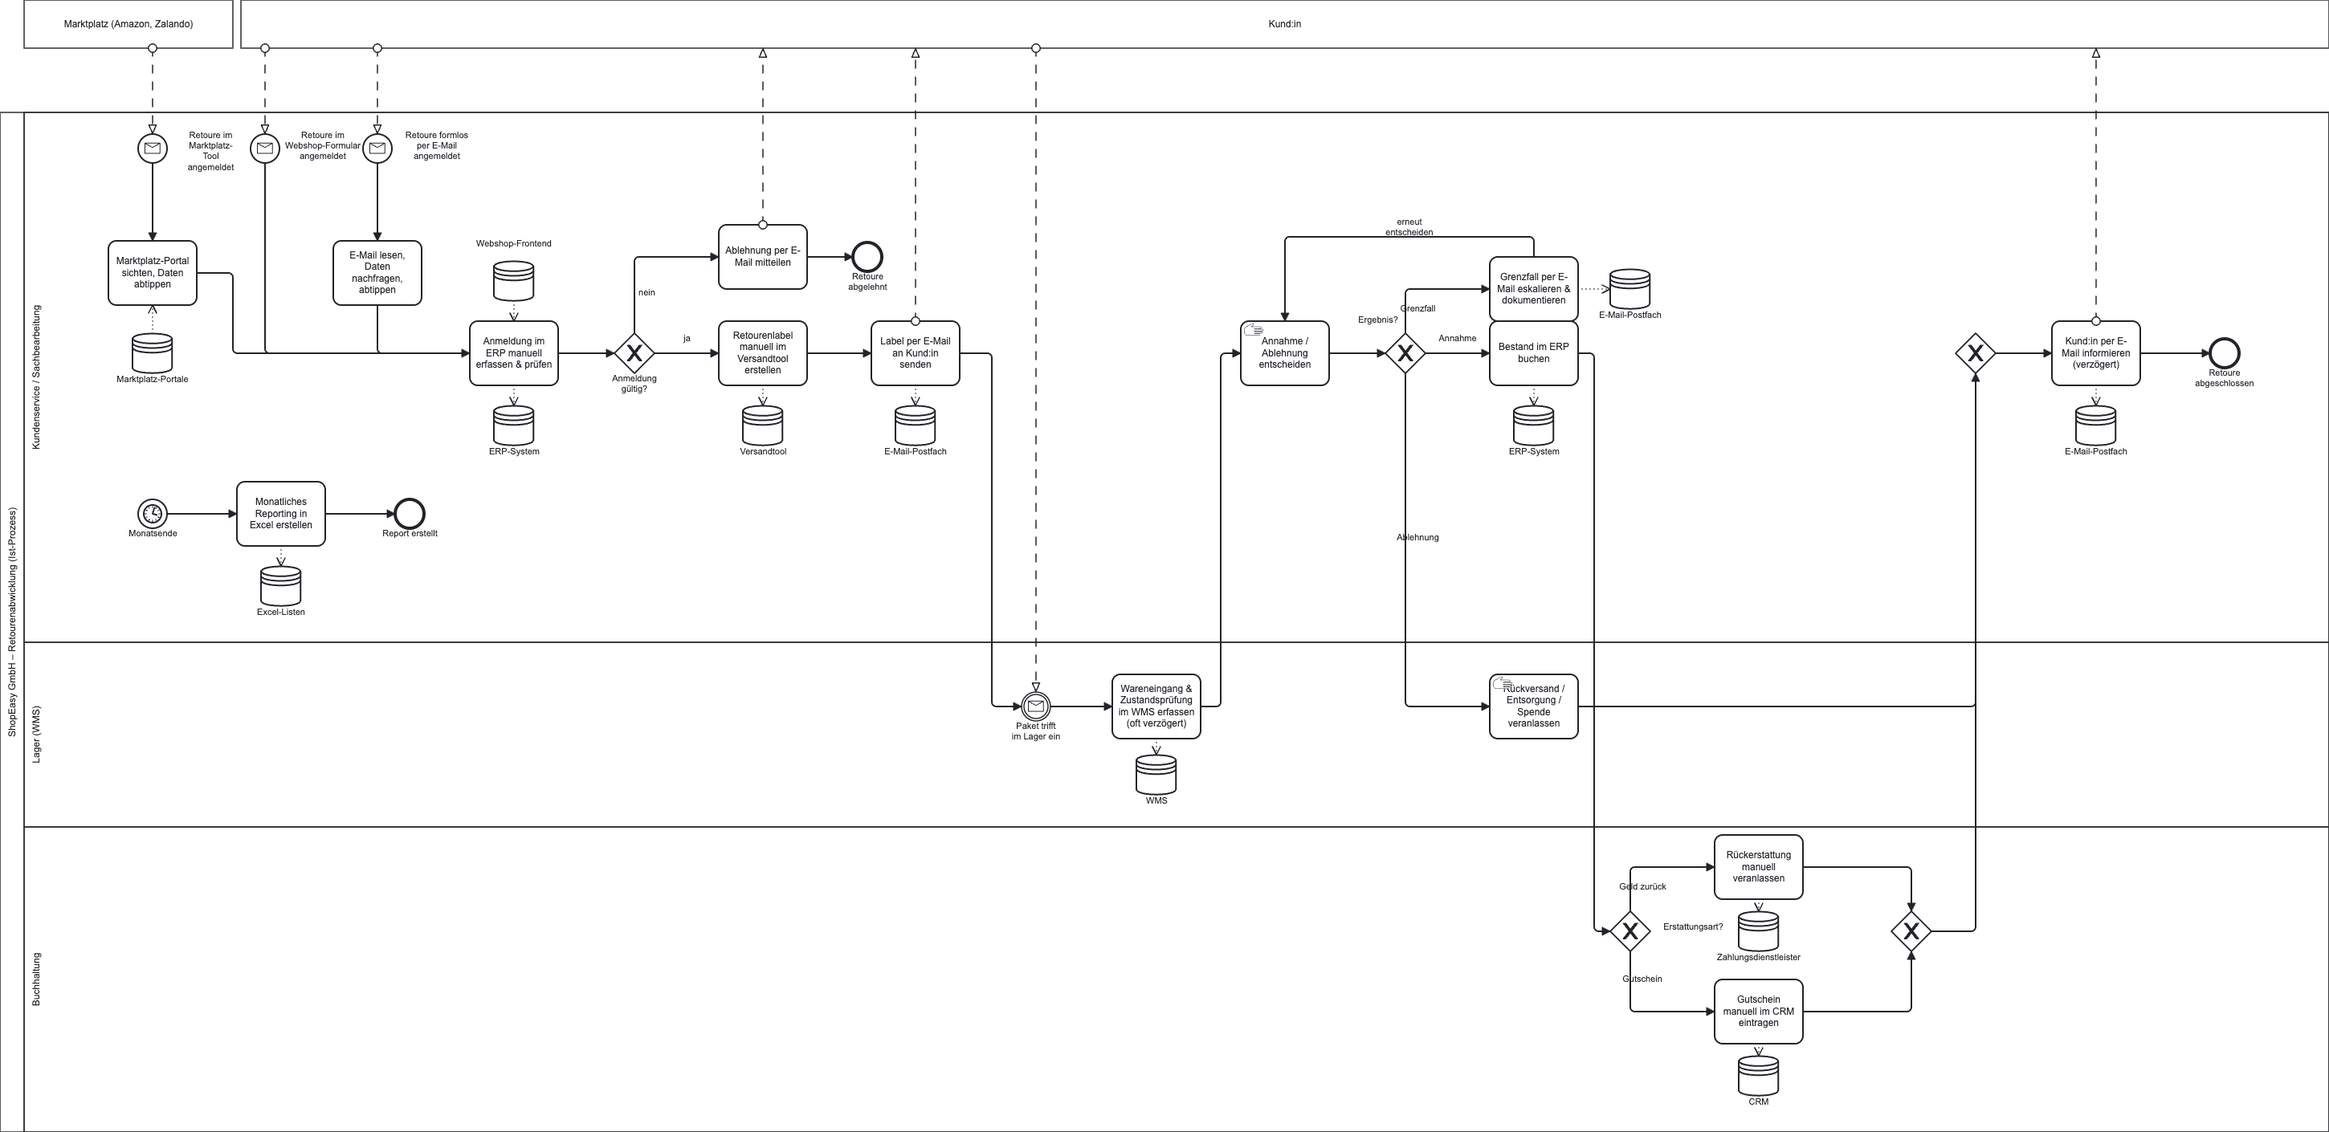
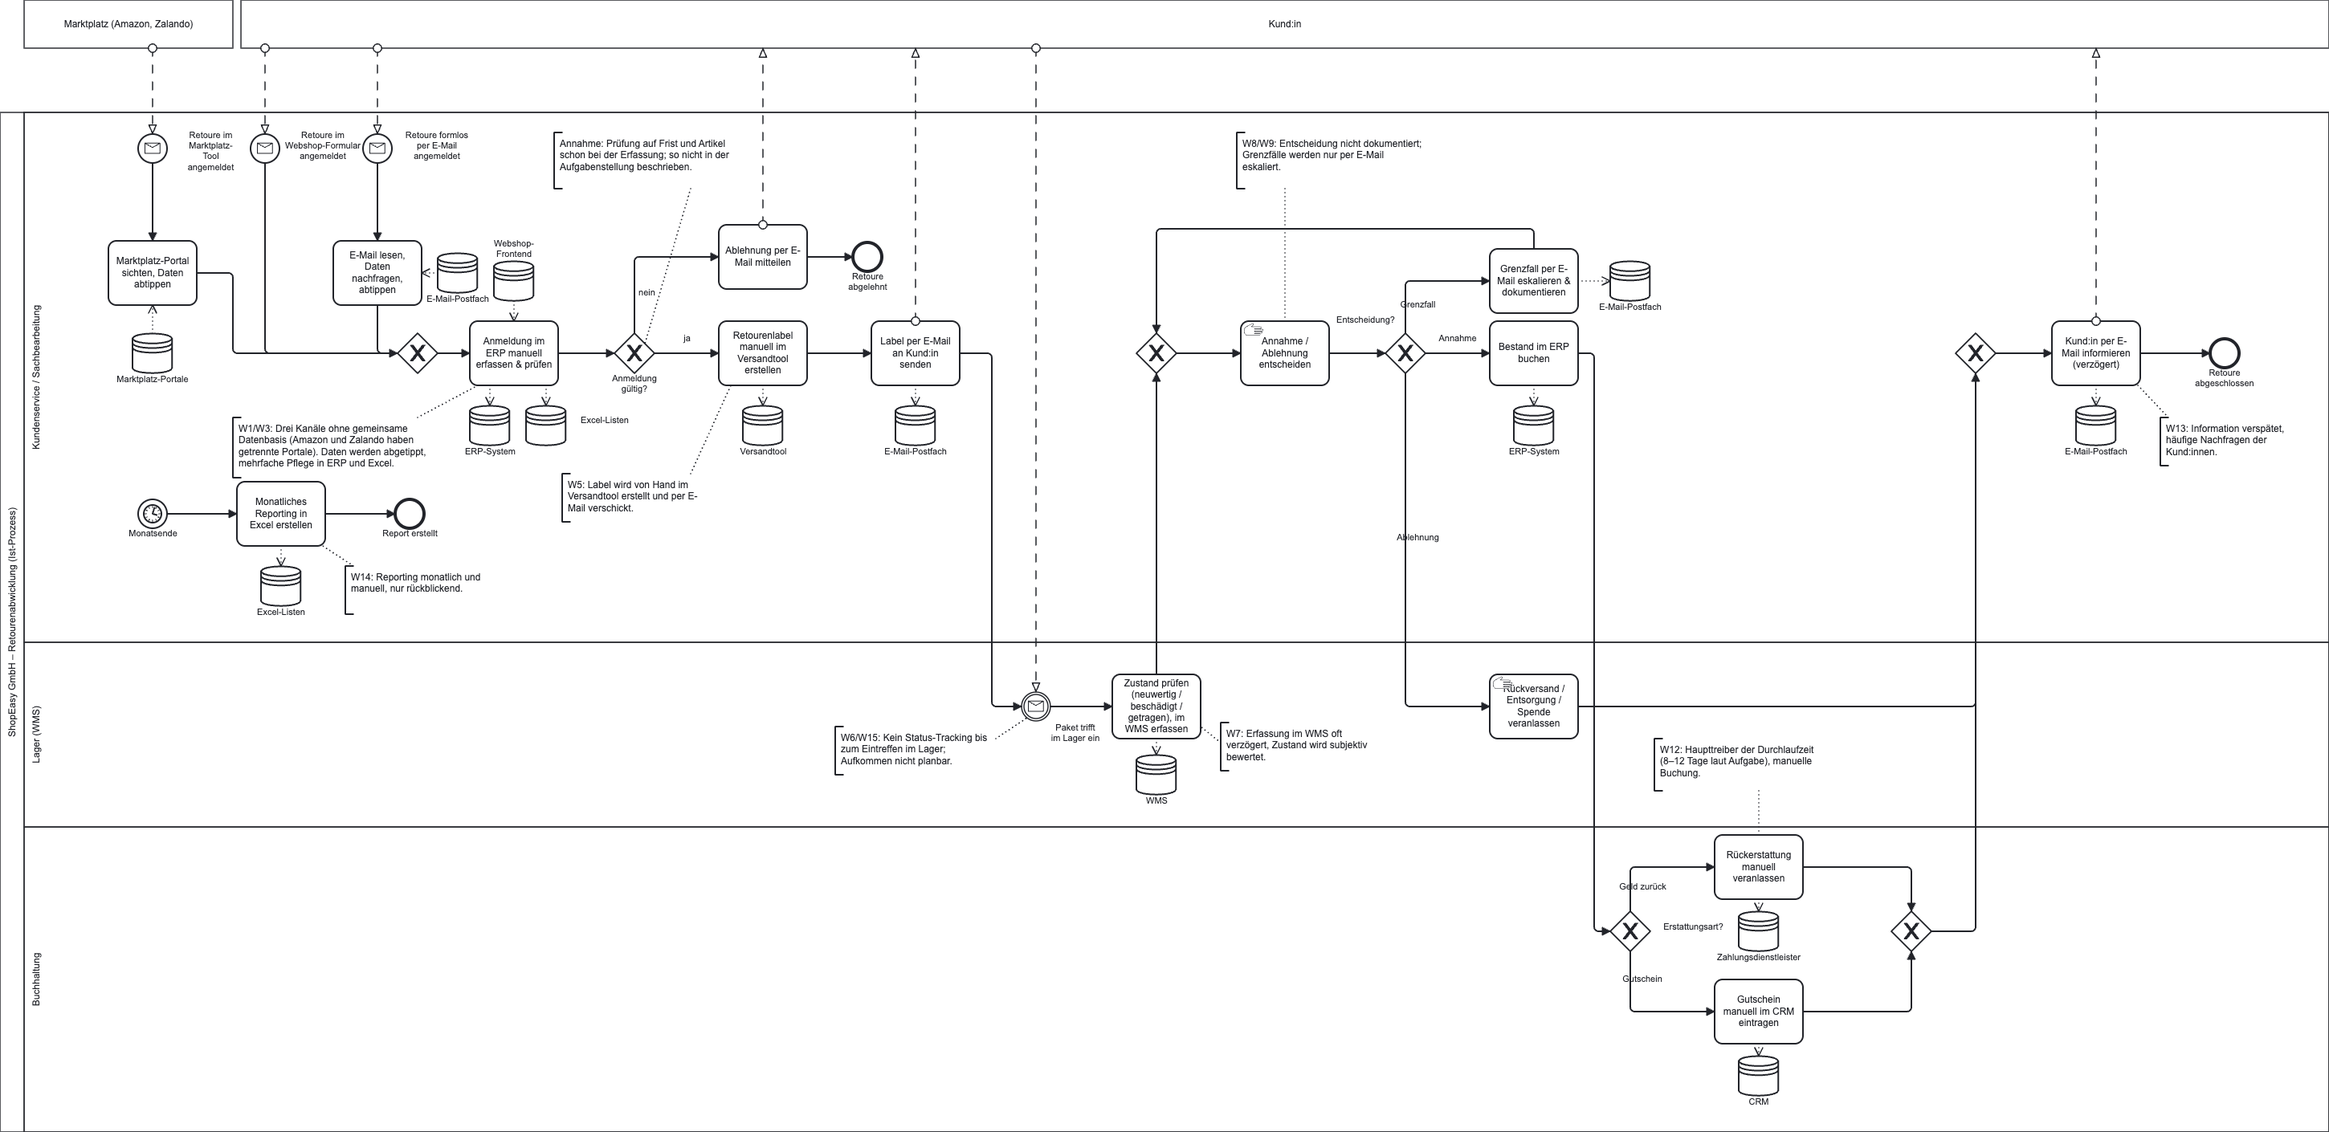
Ist-Modell: Review umgesetzt, Datenspeicher, Gateways und Schwachstellen-Anmerkungen
- E-Mail-Postfach an "E-Mail lesen" und Excel-Speicher an "Anmeldung im ERP erfassen"
- Explizite XOR-Zusammenführung vor ERP-Erfassung und Entscheidung (Lint fake-join)
- Neun Textanmerkungen: Schwachstellen W1-W15 und gekennzeichnete Annahme
- Gateway "Entscheidung?" und Zustandsprüfung umbenannt, Layout-Korrekturen
- Direkt im XML der Datei geändert (ohne Skript); Lint 0 Warnungen, Camunda 8
  Schema-Deploy und 5 Testläufe bestanden, PNG neu gerendert
- Bericht, Schwachstellenanalyse und AI-USAGE angepasst

Claude-Session: https://claude.ai/code/session_016if8MtQSTtzXqTZSJq11bX

diff --git a/sprint1-bpm/sprint1-bericht.md b/sprint1-bpm/sprint1-bericht.md
@@ -12,9 +12,11 @@
 ## Ist-Prozess
 Die zehn Schritte der Aufgabenstellung sind im Pool ShopEasy in drei Lanes modelliert (Kundenservice / Sachbearbeitung, Lager, Buchhaltung). Kund:in und Marktplatz sind externe Teilnehmer und als eingeklappte Pools dargestellt; sie kommunizieren über Nachrichtenflüsse (Anmeldung, Label, Paket, Ablehnung, Information). Die drei Startereignisse münden über kanalspezifische Schritte in die Erfassung im ERP. Danach entscheidet das Gateway „Anmeldung gültig?“, ob die Retoure (z. B. wegen abgelaufener Frist) per E-Mail abgelehnt wird. Die Entscheidung nach dem Wareneingang hat die Ausgänge Annahme, Ablehnung und Grenzfall; Grenzfälle laufen per E-Mail-Eskalation zurück in die Entscheidung. Bei der Rückerstattung (Schritt 8) entscheidet ein Gateway zwischen Geld über den Zahlungsdienstleister und Gutschein im CRM.
 
-Die beteiligten Systeme aus der Aufgabenstellung (Webshop-Frontend, Marktplatz-Portale, ERP, WMS, CRM, Zahlungsdienstleister, E-Mail-Postfach, Excel) sind als Datenspeicher an den Aufgaben modelliert, die sie nutzen; zusätzlich das Versandtool aus Schritt 3. Das monatliche Reporting (Schritt 10) ist ein eigener Ablauf mit Timer-Startereignis, weil es nicht Teil des einzelnen Retourenfalls ist.
+Die beteiligten Systeme aus der Aufgabenstellung (Webshop-Frontend, Marktplatz-Portale, ERP, WMS, CRM, Zahlungsdienstleister, E-Mail-Postfach, Excel) sind als Datenspeicher an den Aufgaben modelliert, die sie nutzen. Jeder Eingangskanal hat sein System (Webshop-Frontend, Marktplatz-Portal, E-Mail-Postfach), und Excel kommt auch bei der Nachverfolgung der Fälle vor, nicht nur im Reporting. Zusätzlich gibt es das Versandtool aus Schritt 3. Das monatliche Reporting (Schritt 10) ist ein eigener Ablauf mit Timer-Startereignis, weil es nicht Teil des einzelnen Retourenfalls ist.
 
-**Aufgabentypen im Ist-Modell:** Schritte, die an einem System ausgeführt werden (ERP, WMS, E-Mail, Excel), sind als undefinierte Aufgabe (`task`) mit Datenspeichern modelliert. Nur die Entscheidung und die Veranlassung von Rückversand, Entsorgung oder Spende sind `manualTask`. Die Vorlesung grenzt den Manual Task als Tätigkeit ohne IT-Unterstützung ab; ein User Task würde eine Process Engine voraussetzen, die es im Ist-Prozess nicht gibt.
+**Aufgabentypen im Ist-Modell:** Schritte, die an einem System ausgeführt werden (ERP, WMS, E-Mail, Excel), sind als undefinierte Aufgabe (`task`) mit Datenspeichern modelliert. Nur die Entscheidung und die Veranlassung von Rückversand, Entsorgung oder Spende sind `manualTask`. Die Vorlesung grenzt den Manual Task als Tätigkeit ohne IT-Unterstützung ab; ein User Task würde eine Process Engine voraussetzen, die es im Ist-Prozess nicht gibt. Wo mehrere Wege in eine Aufgabe münden (Erfassung im ERP, Entscheidung), steht davor ein explizites XOR-Gateway.
+
+**Schwachstellen im Diagramm:** Die Schwachstellen W1 bis W15 stehen als Anmerkungen an den betroffenen Elementen. Eine Annahme, die nicht in der Aufgabenstellung steht (Prüfung auf Frist und Artikel schon bei der Erfassung), ist am Gateway „Anmeldung gültig?“ als Annahme gekennzeichnet.
 
 ## Soll-Prozess – wichtigste Änderungen
 1. Alle Kanäle münden in einen zentralen Retourenfall (REST/Messaging).
@@ -44,14 +46,13 @@ Die Wahl der Umsetzungsart je Aktivität (mit Begründung, verworfener Alternati
 | KI | E-Mail auslesen, Retourengrund klassifizieren, Betrugsscore |
 
 ## Prüfung mit Camunda 8 (lokal, Version 8.10.4)
-- **Lint** (`c8ctl bpmn lint`): keine Fehler. Hinweise nur zum Stil: Aufgaben mit mehreren Eingängen (`fake-join`, hier bewusst ein impliziter XOR-Merge), ein Label an einem Fluss ohne Gateway und zwei sich berührende Elemente im Ist-Modell.
+- **Lint** (`c8ctl bpmn lint`): Ist-Modell ohne Fehler und ohne Warnungen (der erste Lauf zeigte fünf Stilwarnungen, sie sind behoben). Soll-Modell ohne Fehler, vier Stilwarnungen (`fake-join`: Aufgaben mit mehreren Eingängen, hier bewusst ein impliziter XOR-Merge).
 - **Deploy der Dateien unverändert:** beide Modelle sind schema-gültig. Camunda lehnt sie nur ab, weil sie als fachliche Modelle nicht ausführbar sind („Must contain at least one executable process“). Dabei fiel ein Schemafehler im Ist-Modell auf (Datenassoziation ohne Ziel), der behoben wurde.
-- **Testläufe auf ausführbaren Prüfkopien** (mit Zeebe-Erweiterungen für Task-Typen, Nachrichten, Fehlercodes und Bedingungen; die Kopien liegen nicht im Repo, die Konfiguration für den Betrieb folgt in Sprint 4): Soll-Modell 13 Läufe (Standard, Ablehnung, Verdacht bestätigt und nicht bestätigt, Kanal E-Mail und Marktplatz, Label- und Zahlungsfehler in beiden Reihenfolgen, Grenzfall angenommen und abgelehnt, Ablehnung nach Zustandsprüfung, Timeout), Ist-Modell 5 Läufe. Alle Instanzen endeten `COMPLETED`, ohne Incidents und über den erwarteten Pfad.
+- **Testläufe auf ausführbaren Prüfkopien** (mit Zeebe-Erweiterungen für Task-Typen, Nachrichten, Fehlercodes und Bedingungen; die Kopien liegen nicht im Repo, die Konfiguration für den Betrieb folgt in Sprint 4): Soll-Modell 13 Läufe (Standard, Ablehnung, Verdacht bestätigt und nicht bestätigt, Kanal E-Mail und Marktplatz, Label- und Zahlungsfehler in beiden Reihenfolgen, Grenzfall angenommen und abgelehnt, Ablehnung nach Zustandsprüfung, Timeout), Ist-Modell 5 Läufe. Alle Instanzen endeten `COMPLETED`, ohne Incidents und über den erwarteten Pfad. Nach der Überarbeitung des Ist-Modells wurden Lint, Deploy und die fünf Ist-Läufe wiederholt.
 - **Gegenprobe:** Das Soll-Modell vor der Korrektur lehnte Camunda ab (Bedingungen an User Tasks), und mit dem dreifachen Join blieb eine Instanz nach Bestandsbuchung und Rückerstattung hängen (Deadlock). Beides ist im aktuellen Modell behoben.
 
 ## Offene Punkte
-- Modelle im Camunda Modeler öffnen, das Layout prüfen und dort weiterpflegen: Der Modeler ist ab jetzt die Quelle. Den Erstentwurf der Dateien und der Diagramme hat Claude Code per Skript geschrieben, weil die KI den Modeler nicht bedienen kann (siehe `AI-USAGE.md`). Nach Änderungen die PNGs im Modeler neu exportieren; die jetzigen PNGs wurden mit bpmn-js gerendert und können in Details abweichen.
-- Zwei kleine Korrekturen aus dem Lint, im Modeler: im Ist-Modell `t_esc` ein paar Pixel nach oben schieben (berührt `t_stock`) und das Label „erneut entscheiden“ an der Verbindung `t_esc` → `t_dec` entfernen (Labels an Flüssen sind nur an Gateway-Ausgängen vorgesehen).
+- Modelle im Camunda Modeler öffnen, das Layout prüfen und dort weiterpflegen: Der Modeler ist ab jetzt die Quelle. Den Erstentwurf der Dateien hat Claude Code per Skript geschrieben, spätere Änderungen (u. a. Datenspeicher, Anmerkungen und Gateways im Ist-Modell) direkt im XML der Datei, weil die KI den Modeler nicht bedienen kann (siehe `AI-USAGE.md`). Nach Änderungen die PNGs im Modeler neu exportieren; die jetzigen PNGs wurden mit bpmn-js gerendert und können in Details abweichen.
 - Startpunkt der „8–12 Tage“ mit dem Dozenten klären (ab Anmeldung oder ab Wareneingang); K1a und K1b decken beide Varianten ab.
 - Annahmen prüfen: Versandtool und Zahlungsdienstleister haben eine API, das ERP nicht.
 - Aktivitätsnamen des KPI-Katalogs mit der Log-Datei aus Sprint 3 abgleichen.

diff --git a/AI-USAGE.md b/AI-USAGE.md
@@ -16,17 +16,18 @@ Die 2-seitige persönliche Zusammenfassung (Sprint 6) wird ohne KI erstellt.
 | 2026-10-19 | Claude Code | Prüfung der Modelle mit lokalem Camunda 8.10.4 (`c8ctl`: Lint, Deploy, Testläufe auf ausführbaren Prüfkopien, die nicht im Repo liegen); dabei Schemafehler im Ist-Modell (Datenassoziation ohne Ziel) behoben. Die `.bpmn`-Dateien und PNGs hat Claude Code per Skript geschrieben, weil die KI den Camunda Modeler nicht bedienen kann; das Skript `tools/gen_bpmn.py` wurde danach aus dem Repo entfernt, der Camunda Modeler ist ab jetzt die Quelle der Modelle | offen – siehe Prüfliste |
 | 2026-10-19 | Claude Code | Quellenbasis für die Modellierungsregeln im Review (Manual Task ohne IT, Pool = Teilnehmer / Lane = Rolle, Kennzahlenfamilien): die Lernblock-Zusammenfassungen im Kursordner (`DVG_02_BPM_Lernbloecke.md`, `DVG_06_Prozessautomatisierung_Teil1_Lernbloecke.md`). Die Dateien sind KI-erstellt (siehe Zeile vom 04.10.). Claude hat die drei Aussagen am 19.10. gegen die Originalfolien abgeglichen und bestätigt: `06_Prozessautomatisierung_Teil 1.pdf` Folie 43 (Pools und Lanes) und Folie 48 (manuelle Aktivität ohne IT gegenüber Steuerung durch die Process Engine), `02_BPM.pdf` Folie 35 (Kennzahlenfamilien) | offen – siehe Prüfliste |
 | 2026-10-19 | Claude Code | Review und Überarbeitung von `sprint1-bpm/schwachstellenanalyse.md`: Kategorien auf Medienbruch, Wartezeit und Fehlerquelle vereinheitlicht (W6 und W10 fehlten), Spalte „Beleg“ (Aufgabe oder Annahme), neue Tabellen zu Medienbrüchen und Wartezeiten, Ursache-Wirkung-Ketten, Priorisierung nach den drei Zielen des Managements, Hypothesen mit KPI-Bezug | offen – siehe Prüfliste |
+| 2026-10-19 | Claude Code | Ist-Modell (`sprint1-bpm/ist-prozess.bpmn`) nach dem Review direkt im XML der Datei geändert (von Hand, ohne Skript, weil die KI den Camunda Modeler nicht bedienen kann): E-Mail-Postfach an `t_mail`, Excel-Speicher an `t_erp`, zwei explizite Zusammenführungs-Gateways, neun Anmerkungen (Schwachstellen W1–W15, gekennzeichnete Annahme), `gw1` und `t_gr` umbenannt, Layout-Korrekturen. Geprüft mit Lint (0 Warnungen), Camunda 8 (Schema-Deploy, 5 Testläufe) und Render; PNG neu erzeugt | offen – siehe Prüfliste |
 
 ## Prüfliste vor Abgabe (bis 20.10.2026, 10:00)
 
 Nach der Prüfung ersetzt ihr „offen – siehe Prüfliste“ in der Tabelle durch das Ergebnis, z. B. „Gelesen und geprüft von Anna am 20.10.; geändert: Priorisierung von W4 auf hoch“.
 
 - [ ] **1. Entwurf vom 12.10.** (Charter, Ist-/Soll-BPMN, Schwachstellen, KPI): alle Dokumente in `docs/` inhaltlich lesen. Geprüft von: ____ am: ____ Geändert: ____
-- [ ] **2. Ist-Modell** (19.10.): `sprint1-bpm/ist-prozess.bpmn` im Camunda Modeler öffnen; Layout und Inhalt gegen die zehn Schritte der Aufgabenstellung prüfen. Geprüft von: ____ am: ____ Geändert: ____
+- [ ] **2. Ist-Modell** (19.10.): `sprint1-bpm/ist-prozess.bpmn` im Camunda Modeler öffnen; Layout und Inhalt gegen die zehn Schritte der Aufgabenstellung prüfen. Die Änderungen vom 19.10. (Datenspeicher, Gateways, Anmerkungen) ansehen und bei Bedarf im Modeler nachbessern. Geprüft von: ____ am: ____ Geändert: ____
 - [ ] **3. Schwachstellenanalyse:** Priorisierung (Auswirkung/Aufwand) und Top 5 im Team abstimmen. Inhalte aus „Prozess Analyse der Shop Easy GmbH“ (von Eduard Ede Moser, eigene Zeile) wurden in eigener Formulierung übernommen. Zusätzlich lesen: Beleg-Spalte (A = Aufgabe, H = Annahme), die Tabellen zu Medienbrüchen und Wartezeiten, die drei Ursache-Wirkung-Ketten und Abschnitt 6 (Annahmen). Geprüft von: ____ am: ____ Geändert: ____
 - [ ] **4. KPI-Katalog:** Zielwerte (Spalte „Ziel (V)“) sind Vorschläge der KI; Kern-KPIs bestätigen oder anpassen. Geprüft von: ____ am: ____ Geändert: ____
 - [ ] **5. Soll-Prozess-Realisierung:** Begründungen und Annahmen (Versandtool und Zahlungsdienstleister haben eine API, das ERP nicht) prüfen, ggf. mit dem Dozenten klären. Geprüft von: ____ am: ____ Geändert: ____
 - [ ] **6. Review und Korrekturen** (19.10.): Soll- und Ist-Modell sowie die PNGs im Modeler prüfen; Zielwerte K1b ≤ 1 Tag, K18 und K19 bestätigen. Geprüft von: ____ am: ____ Geändert: ____
-- [ ] **7. Camunda-8-Prüfung** (19.10.): zwei Lint-Korrekturen im Ist-Modell im Modeler umsetzen (`t_esc` etwas nach oben schieben; Label „erneut entscheiden“ an der Verbindung `t_esc` → `t_dec` entfernen), speichern und die PNGs neu exportieren. Geprüft von: ____ am: ____ Geändert: ____
+- [ ] **7. Camunda-8-Prüfung** (19.10.): Ergebnisse im `sprint1-bericht.md` lesen; die zwei Lint-Korrekturen im Ist-Modell sind erledigt. Wenn ihr im Modeler etwas ändert, speichern und die PNGs neu exportieren. Geprüft von: ____ am: ____ Geändert: ____
 - [ ] **8. Quellenbasis:** die Folienangaben der Zeile vom 19.10. stichprobenartig nachsehen. Herkunft der `02_BPM_Zusammenfassung.md`, `02_BPM_Karteikarten.md` und `02_BPM_Fragen_Loesungen.md` klären und bei KI-Erstellung hier ergänzen. Geprüft von: ____ am: ____ Geändert: ____
 - [ ] **9. Frühere KI-Nutzung** (Lernblöcke von Yaraslau, Prozess-Analyse von Ede): die zwei Zeilen oben bestätigen; Ede trägt Datum, Tool und Umfang der KI-Nutzung bei der Prozess-Analyse nach. Geprüft von: ____ am: ____ Geändert: ____

diff --git a/sprint1-bpm/schwachstellenanalyse.md b/sprint1-bpm/schwachstellenanalyse.md
@@ -1,6 +1,6 @@
 # Schwachstellenanalyse Ist-Prozess
 
-Bezug: `sprint1-bpm/ist-prozess.bpmn`. Die Spalte „Element“ nennt Name und ID (die ID steht im Modeler im Eigenschaftenfeld; sie bleibt beim Umbenennen gleich, neu angelegte Elemente bekommen eine neue ID).
+Bezug: `sprint1-bpm/ist-prozess.bpmn`. Die W-Nummern stehen dort als Anmerkungen im Diagramm. Die Spalte „Element“ nennt Name und ID (die ID steht im Modeler im Eigenschaftenfeld; sie bleibt beim Umbenennen gleich, neu angelegte Elemente bekommen eine neue ID).
 
 **Kategorien** (Vorgabe der Aufgabe): **MB** Medienbruch · **WZ** Wartezeit · **FQ** Fehlerquelle. Doppelerfassung, Intransparenz und Missbrauchsrisiko sind Ausprägungen und stehen im Text der Schwachstelle.
 
@@ -59,8 +59,8 @@ Manuelles Abtippen, Prüfung nach Erfahrung, subjektive Zustandsbewertung und fe
 | W4 | Prüfung der Anmeldung | Anmeldung im ERP erfassen (`t_erp`), Anmeldung gültig? (`gw_ok`), Ablehnung per E-Mail (`t_rej`) | FQ | Prüfung nach Erfahrung, keine feste Vorprüfung; auch abgelaufene Fristen werden von Hand aussortiert | H (Aufgabe nennt nur „Prüfung der Anmeldung“, Frist und Artikel sind Annahmen) | Uneinheitliche Entscheidungen, Zeitverlust | Regelbasierte Vorprüfung (Frist, Artikel, Kundenhistorie) | Regeln/DMN (Sprint 4) | m | n |
 | W5 | Label erstellen und senden | Label im Versandtool erstellen (`t_label`), Label per E-Mail senden (`t_send`) | WZ, MB | Eine Person erstellt das Label im Versandtool (nur wenige Klicks) und versendet es per E-Mail | A (Schritt 3), H („wenige Klicks“, Wartezeit) | Wartezeit für Kund:in, Personalaufwand pro Fall | Automatische Labelerzeugung per Versand-API, Versand per Nachricht | System/Service | m | n |
 | W6 | Rückversand | Label per E-Mail senden (`t_send`), Paket trifft im Lager ein (`ev_wait`) | MB | Informationsbruch: kein Status-Tracking bis Eintreffen im Lager (Intransparenz) | A (Schritt 4, Schwachstelle 2) | Kund:innen fragen nach, Management ohne Überblick | Status-Events; Timer (21 Tage) für nicht eingegangene Ware | Messaging, Workflow | m | m |
-| W7 | Wareneingang und Zustandsprüfung | Wareneingang und Zustandsprüfung im WMS (`t_gr`) | WZ, FQ | Erfassung im WMS erfolgt oft verzögert; Zustand (neuwertig/beschädigt/getragen) wird subjektiv bewertet. Das Öffnen und Beurteilen der Ware bleibt Handarbeit. | A (Schritt 5, Schwachstelle 3) | Verzögerte Erstattung, uneinheitliche Bewertung | Erfassung direkt am Wareneingang über gRPC-Service mit fester Zustandsskala | Mensch + Service (Sprint 2) | h | m |
-| W8 | Entscheidung Annahme/Ablehnung | Annahme / Ablehnung entscheiden (`t_dec`), Ergebnis? (`gw1`) | FQ | Entscheidung nicht dokumentiert, nicht regelbasiert | A (Schritt 6, Schwachstelle 3) | Streit mit Kund:innen, keine Nachvollziehbarkeit | DMN-Regeln auf Zustand, Warenwert, Betrugsscore; Entscheidung wird gespeichert | Regeln/DMN | h | m |
+| W7 | Wareneingang und Zustandsprüfung | Zustand prüfen und im WMS erfassen (`t_gr`) | WZ, FQ | Erfassung im WMS erfolgt oft verzögert; Zustand (neuwertig/beschädigt/getragen) wird subjektiv bewertet. Das Öffnen und Beurteilen der Ware bleibt Handarbeit. | A (Schritt 5, Schwachstelle 3) | Verzögerte Erstattung, uneinheitliche Bewertung | Erfassung direkt am Wareneingang über gRPC-Service mit fester Zustandsskala | Mensch + Service (Sprint 2) | h | m |
+| W8 | Entscheidung Annahme/Ablehnung | Annahme / Ablehnung entscheiden (`t_dec`), Entscheidung? (`gw1`) | FQ | Entscheidung nicht dokumentiert, nicht regelbasiert | A (Schritt 6, Schwachstelle 3) | Streit mit Kund:innen, keine Nachvollziehbarkeit | DMN-Regeln auf Zustand, Warenwert, Betrugsscore; Entscheidung wird gespeichert | Regeln/DMN | h | m |
 | W9 | Grenzfall-Eskalation | Grenzfall per E-Mail eskalieren (`t_esc`) | MB, WZ | Eskalation und Dokumentation laufen per E-Mail, ohne Frist; für die Auswertung muss später wieder in Excel übertragen werden | A (Schritt 6 „in E-Mails dokumentiert“), H (ohne Frist, Übertrag in Excel) | Lange Liegezeit, Informationsverlust | Menschliche Aufgabe im Workflow mit dokumentierter Entscheidung | Mensch | m | n |
 | W10 | Betrugs-/Missbrauchserkennung | Annahme / Ablehnung entscheiden (`t_dec`); eine Betrugsprüfung fehlt im Ist-Modell | FQ | Missbrauchsrisiko: Wardrobing wird nicht systematisch erkannt (Kontrolllücke) | A (Schwachstelle 5) | Wirtschaftlicher Schaden | Betrugsscore aus Kundenhistorie und Mustern | KI-Agent (Sprint 5) | h | m |
 | W11 | Bestandsbuchung | Bestand im ERP buchen (`t_stock`) | MB, FQ | Doppelerfassung: Rückbuchung im ERP-Frontend von Hand | A (Schritt 7, Systemliste), H (Handarbeit im Frontend, Abweichungen) | Bestandsabweichungen | Bot bucht im ERP-Frontend | RPA (Sprint 5) | m | m |
